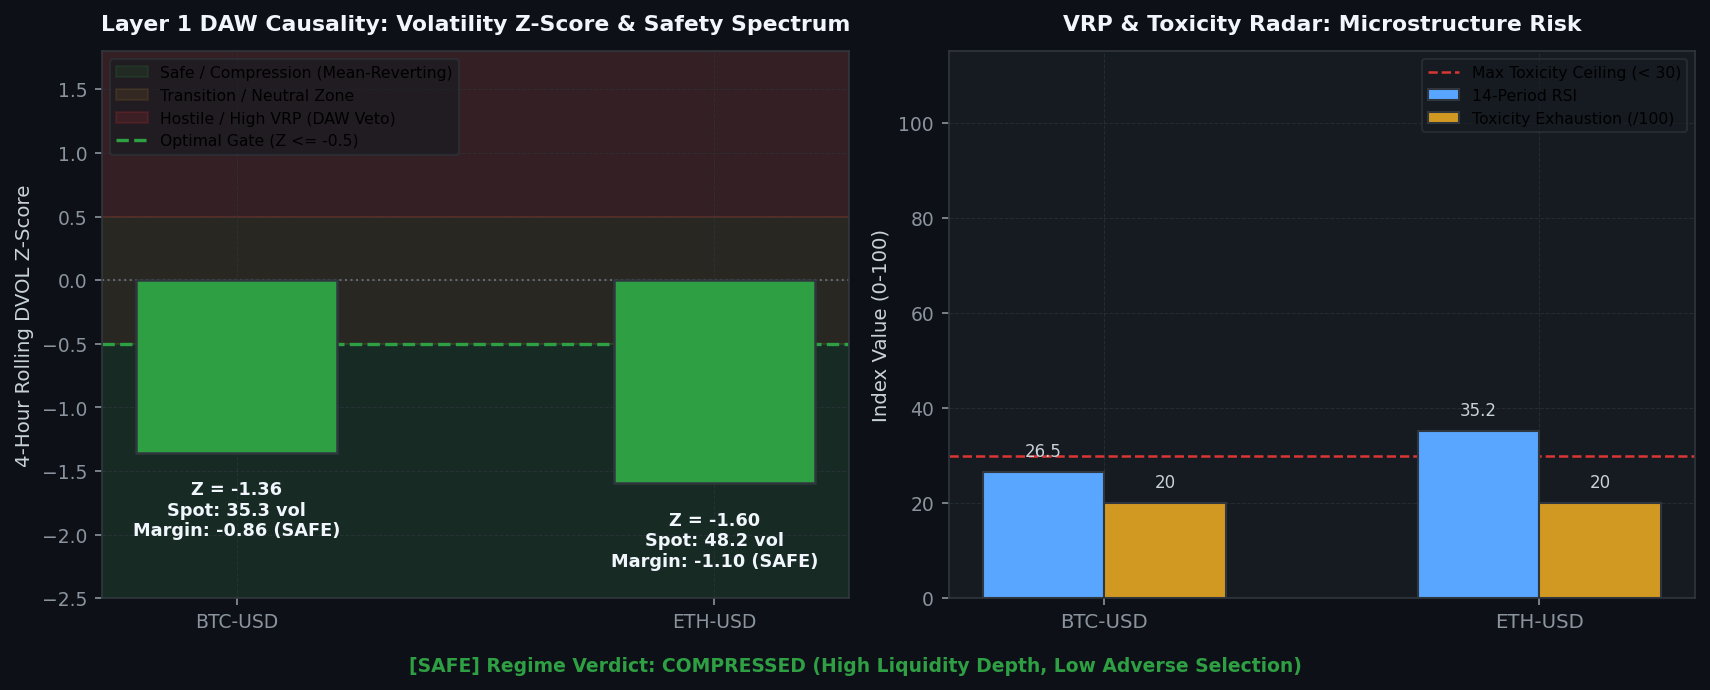
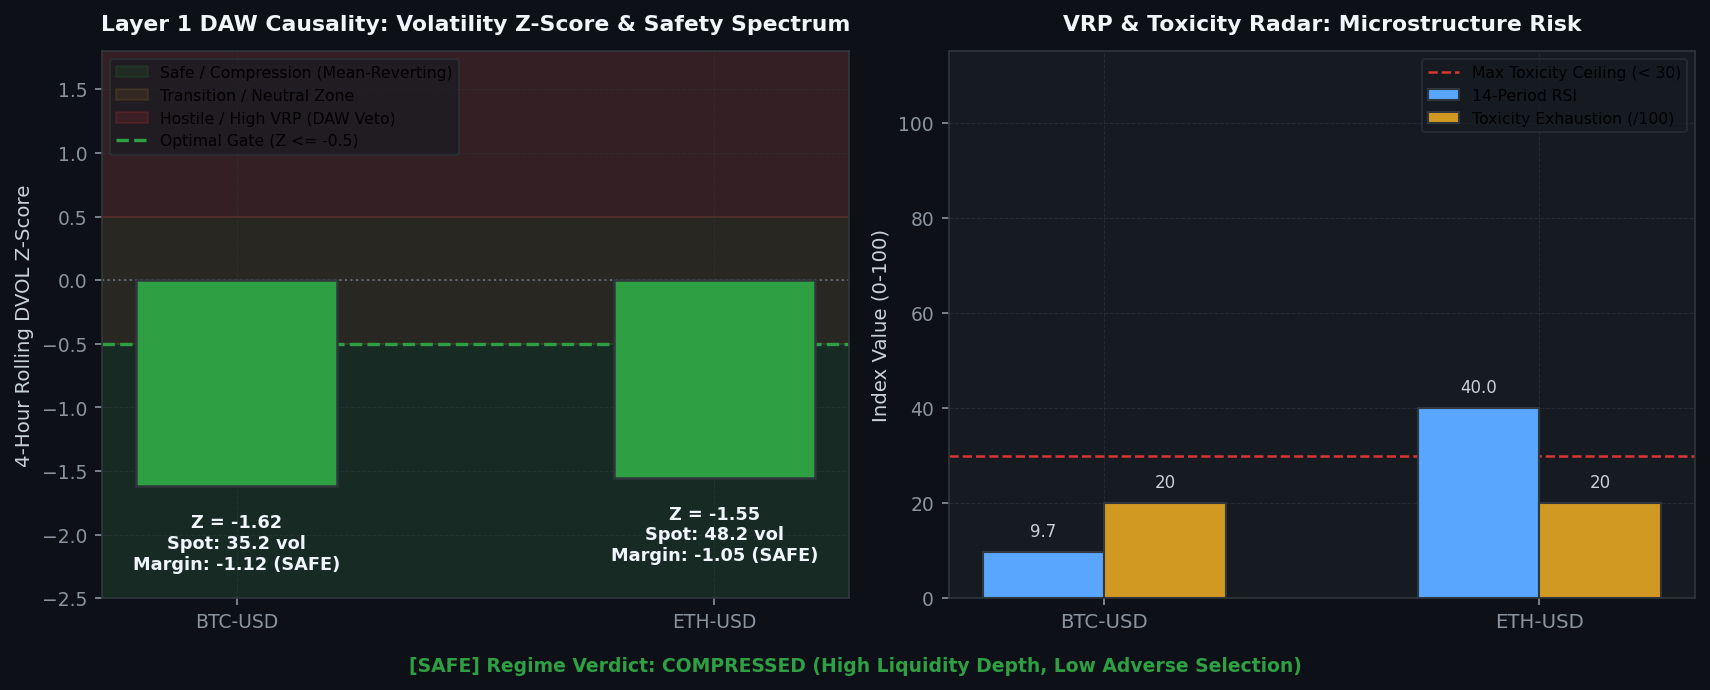
[coinbase] Hourly Status & Visual Intelligence Update: 2026-10-02 12:45:39

diff --git a/coinbase/data/hourly_status_report.md b/coinbase/data/hourly_status_report.md
@@ -3,7 +3,7 @@ layout: default
 ---
 
 # 🛡 Unified Trading System Hourly Status & Visual Intelligence
-> **Report Generated**: `2026-10-02 12:28:10 PM PDT (2026-10-02 19:28:10 UTC)`  
+> **Report Generated**: `2026-10-02 12:45:21 PM PDT (2026-10-02 19:45:21 UTC)`  
 > **System Health**: **🟡 DEGRADED / RESTRICTED** | **Win Rate**: `0.0%` | **Completed Trades**: `0`
 
 
@@ -15,13 +15,13 @@ Real-time Deribit implied volatility (DVOL) proxy tracking against mathematicall
 
 | Symbol | Proxy Oracle | Live Z-Score | Optimal Limit (YSP) | Safety Margin | Live VRP | Optimal VRP (YSP) | DAW Safety Verdict |
 | :--- | :--- | :--- | :--- | :--- | :--- | :--- | :--- |
-| `BTC-USD` | DVOL_BTC | **-1.33** | **-0.50** | **-0.83** | **+22.91** | -1.0 | 🔴 DAW VETOED |
-| `ETH-USD` | DVOL_ETH | **-1.60** | **-0.50** | **-1.10** | **+39.13** | -1.0 | 🔴 DAW VETOED |
-| `SOL-USD` | DVOL_BTC | **-1.33** | **-0.50** | **-0.83** | **+22.89** | -1.0 | 🔴 DAW VETOED |
-| `DOGE-USD` | DVOL_BTC | **-1.33** | **-0.50** | **-0.83** | **+22.89** | -1.0 | 🔴 DAW VETOED |
-| `AVAX-USD` | DVOL_BTC | **-1.33** | **-0.50** | **-0.83** | **+22.91** | -1.0 | 🔴 DAW VETOED |
-| `LINK-USD` | DVOL_BTC | **-1.33** | **-0.50** | **-0.83** | **+22.91** | -1.0 | 🔴 DAW VETOED |
-| `XRP-USD` | DVOL_BTC | **-1.33** | **-0.50** | **-0.83** | **+22.89** | 5.0 | 🔴 DAW VETOED |
+| `BTC-USD` | DVOL_BTC | **-1.62** | **-0.50** | **-1.12** | **+22.91** | -1.0 | 🔴 DAW VETOED |
+| `ETH-USD` | DVOL_ETH | **-1.56** | **-0.50** | **-1.06** | **+39.13** | -1.0 | 🔴 DAW VETOED |
+| `SOL-USD` | DVOL_BTC | **-1.62** | **-0.50** | **-1.12** | **+22.89** | -1.0 | 🔴 DAW VETOED |
+| `DOGE-USD` | DVOL_BTC | **-1.62** | **-0.50** | **-1.12** | **+22.89** | -1.0 | 🔴 DAW VETOED |
+| `AVAX-USD` | DVOL_BTC | **-1.62** | **-0.50** | **-1.12** | **+22.91** | -1.0 | 🔴 DAW VETOED |
+| `LINK-USD` | DVOL_BTC | **-1.62** | **-0.50** | **-1.12** | **+22.91** | -1.0 | 🔴 DAW VETOED |
+| `XRP-USD` | DVOL_BTC | **-1.62** | **-0.50** | **-1.12** | **+22.89** | 5.0 | 🔴 DAW VETOED |
 
 
 
@@ -37,12 +37,12 @@ We hereby certify that the mission-critical algorithmic data assets uploaded by 
 
 | Status | Data Asset | Freshness / State | Details / Timestamp |
 | :---: | :--- | :--- | :--- |
-| ✅ | **Go-List JSON** | Fresh (107.28h old) | 09-28 01:11 |
-| ✅ | **TimesFM Forecasts** | Fresh (4.41h old) | 10-02 08:03 |
-| ✅ | **Holding Times config** | Fresh (107.29h old) | 09-28 01:11 |
-| ✅ | **BTC DVOL Cache** | Fresh (0.01h old) | 10-02 12:27 |
-| ✅ | **ETH DVOL Cache** | Fresh (0.01h old) | 10-02 12:27 |
-| ❌ | **Live Causal Telemetry** | STALE! (408.8h old) | Limit 0.5h |
+| ✅ | **Go-List JSON** | Fresh (107.57h old) | 09-28 01:11 |
+| ✅ | **TimesFM Forecasts** | Fresh (4.70h old) | 10-02 08:03 |
+| ✅ | **Holding Times config** | Fresh (107.57h old) | 09-28 01:11 |
+| ✅ | **BTC DVOL Cache** | Fresh (0.00h old) | 10-02 12:45 |
+| ✅ | **ETH DVOL Cache** | Fresh (0.00h old) | 10-02 12:45 |
+| ❌ | **Live Causal Telemetry** | STALE! (409.1h old) | Limit 0.5h |
 
 <br>
 
@@ -135,14 +135,14 @@ Live balance sheet and open maker liquidity positions from Coinbase CDP.
 ## 6. 🤖 Foundation Model MLOps & Pipeline Orchestration
 Weekly Algorithmic Mega Cap selection, Zero-shot multi-step forward return forecasts, and VSTEF parameter grid search status.
 
-- **TimesFM Forecast DB**: 🟢 Updated 4.4h ago (2026-10-02 08:03 AM PDT)
+- **TimesFM Forecast DB**: 🟢 Updated 4.7h ago (2026-10-02 08:03 AM PDT)
 - **Last Weekly VSTEF Optimization**: `2026-09-28 01:10:22 AM PDT`
-- **Next Scheduled VSTEF Run**: `2026-10-04 07:00:00 PM PDT (Monday 02:00 UTC)` (Countdown: **54.5h (2d 6h 31m)**)
+- **Next Scheduled VSTEF Run**: `2026-10-04 07:00:00 PM PDT (Monday 02:00 UTC)` (Countdown: **54.2h (2d 6h 14m)**)
 - **Promoted Parameter Gates**: $Z_{DVOL} \le -0.5$ | Holding Horizon $= 12\text{h}$
 
 ### Algorithmic Mega Cap Selection
 - **Last Run (Confirmation)**: `2026-09-28 01:11:12 AM PDT`
-- **Next Scheduled Run**: `2026-10-04 06:00:00 PM PDT (Monday 01:00 UTC)` (Countdown: **53.5h (2d 5h 31m)**)
+- **Next Scheduled Run**: `2026-10-04 06:00:00 PM PDT (Monday 01:00 UTC)` (Countdown: **53.2h (2d 5h 14m)**)
 - **Selected Mega Cap Universe**: `BTC, ETH, SOL, DOGE, AVAX, LINK, XRP`
 
 
@@ -158,8 +158,7 @@ Visualizing the impact of the VSTEF (Volatility-Synchronized Stop-Tightening Exe
 ================================================================================
    🛡  CAUSAL HFT GUARDIAN WATCHDOG v7.0.0 (CANARY ACTIVE)
 ================================================================================
-2304815    03:07:37  0.0  0.0 bash -c cd /opt/hft_trader && /opt/hft_trader/venv/bin/python3 guardian_causal.py > logs/guardian_causal.log 2>&1 &
-2304816    03:07:37  0.0  0.0 /opt/hft_trader/venv/bin/python3 guardian_causal.py
+2454565       09:21  0.0  0.0 /opt/hft_trader/venv/bin/python -u guardian_causal.py
 ```
 
 ---

diff --git a/coinbase/data/visual_intelligence.md b/coinbase/data/visual_intelligence.md
@@ -4,7 +4,7 @@ title: Visual Intelligence Gallery
 ---
 
 # 📈 Visual Intelligence Gallery
-> **Generated:** `2026-10-02 12:28:28`
+> **Generated:** `2026-10-02 12:45:39`
 > **[Return to Main Status Report](./hourly_status_report.md)**
 
 This page visualizes the internal states, market profiles, and decision criteria of the active **3-Tier Fused Decision Engine** across all layers.
